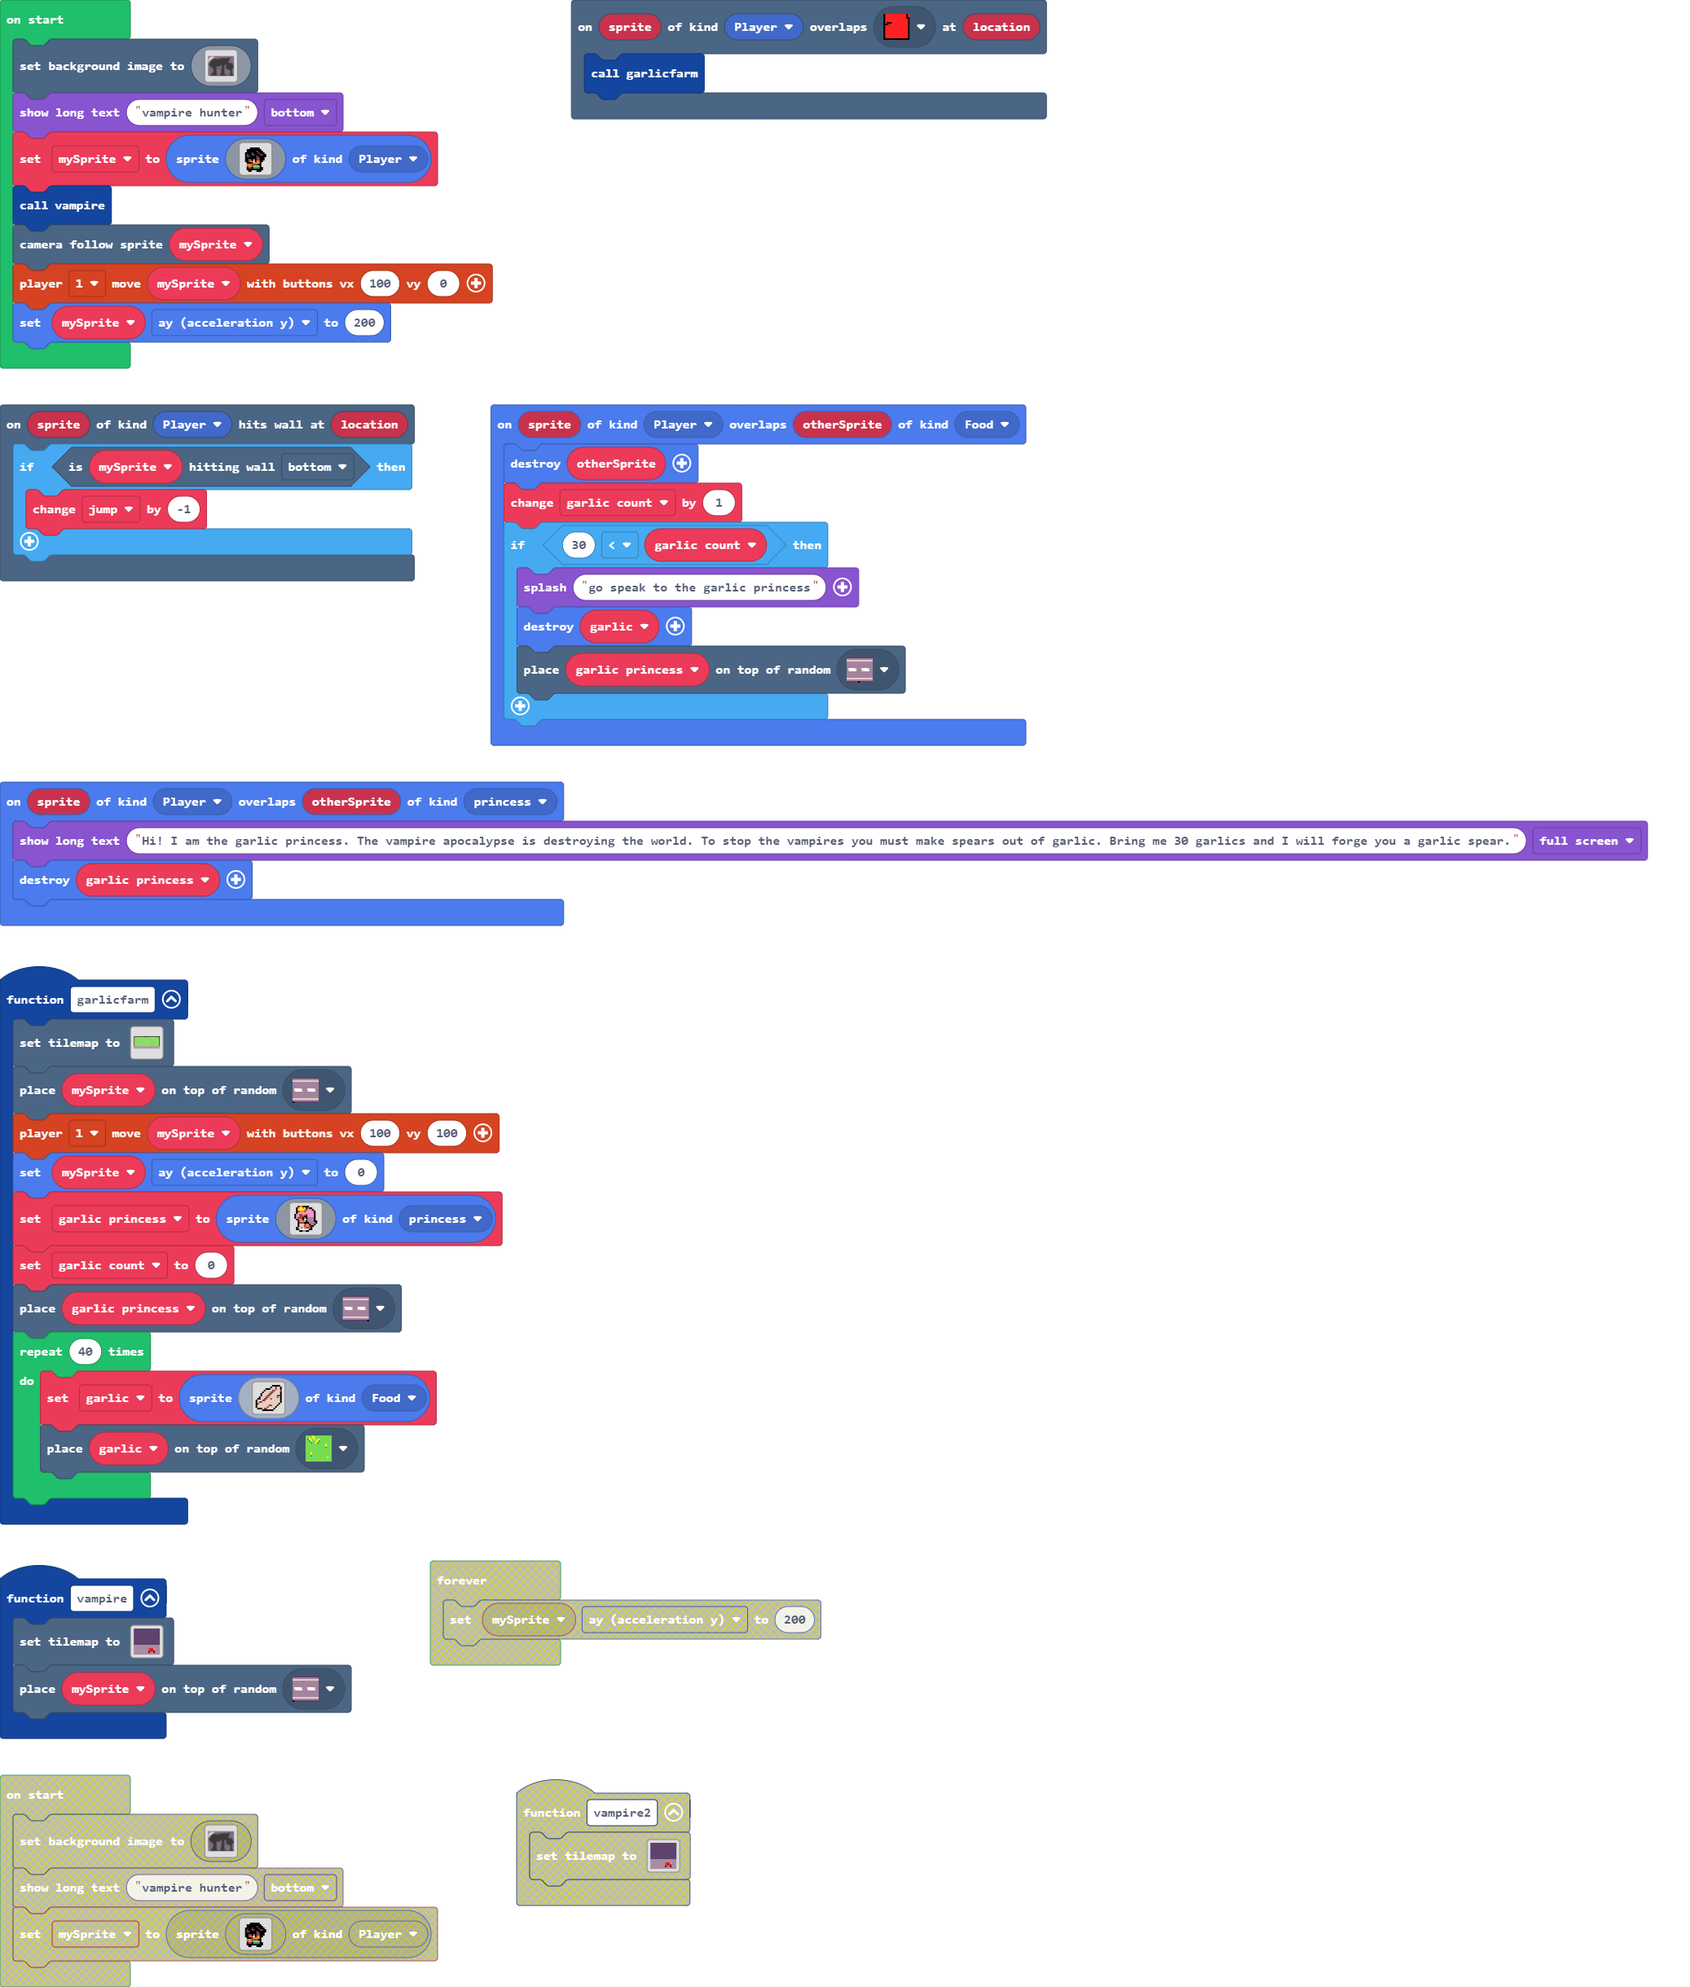
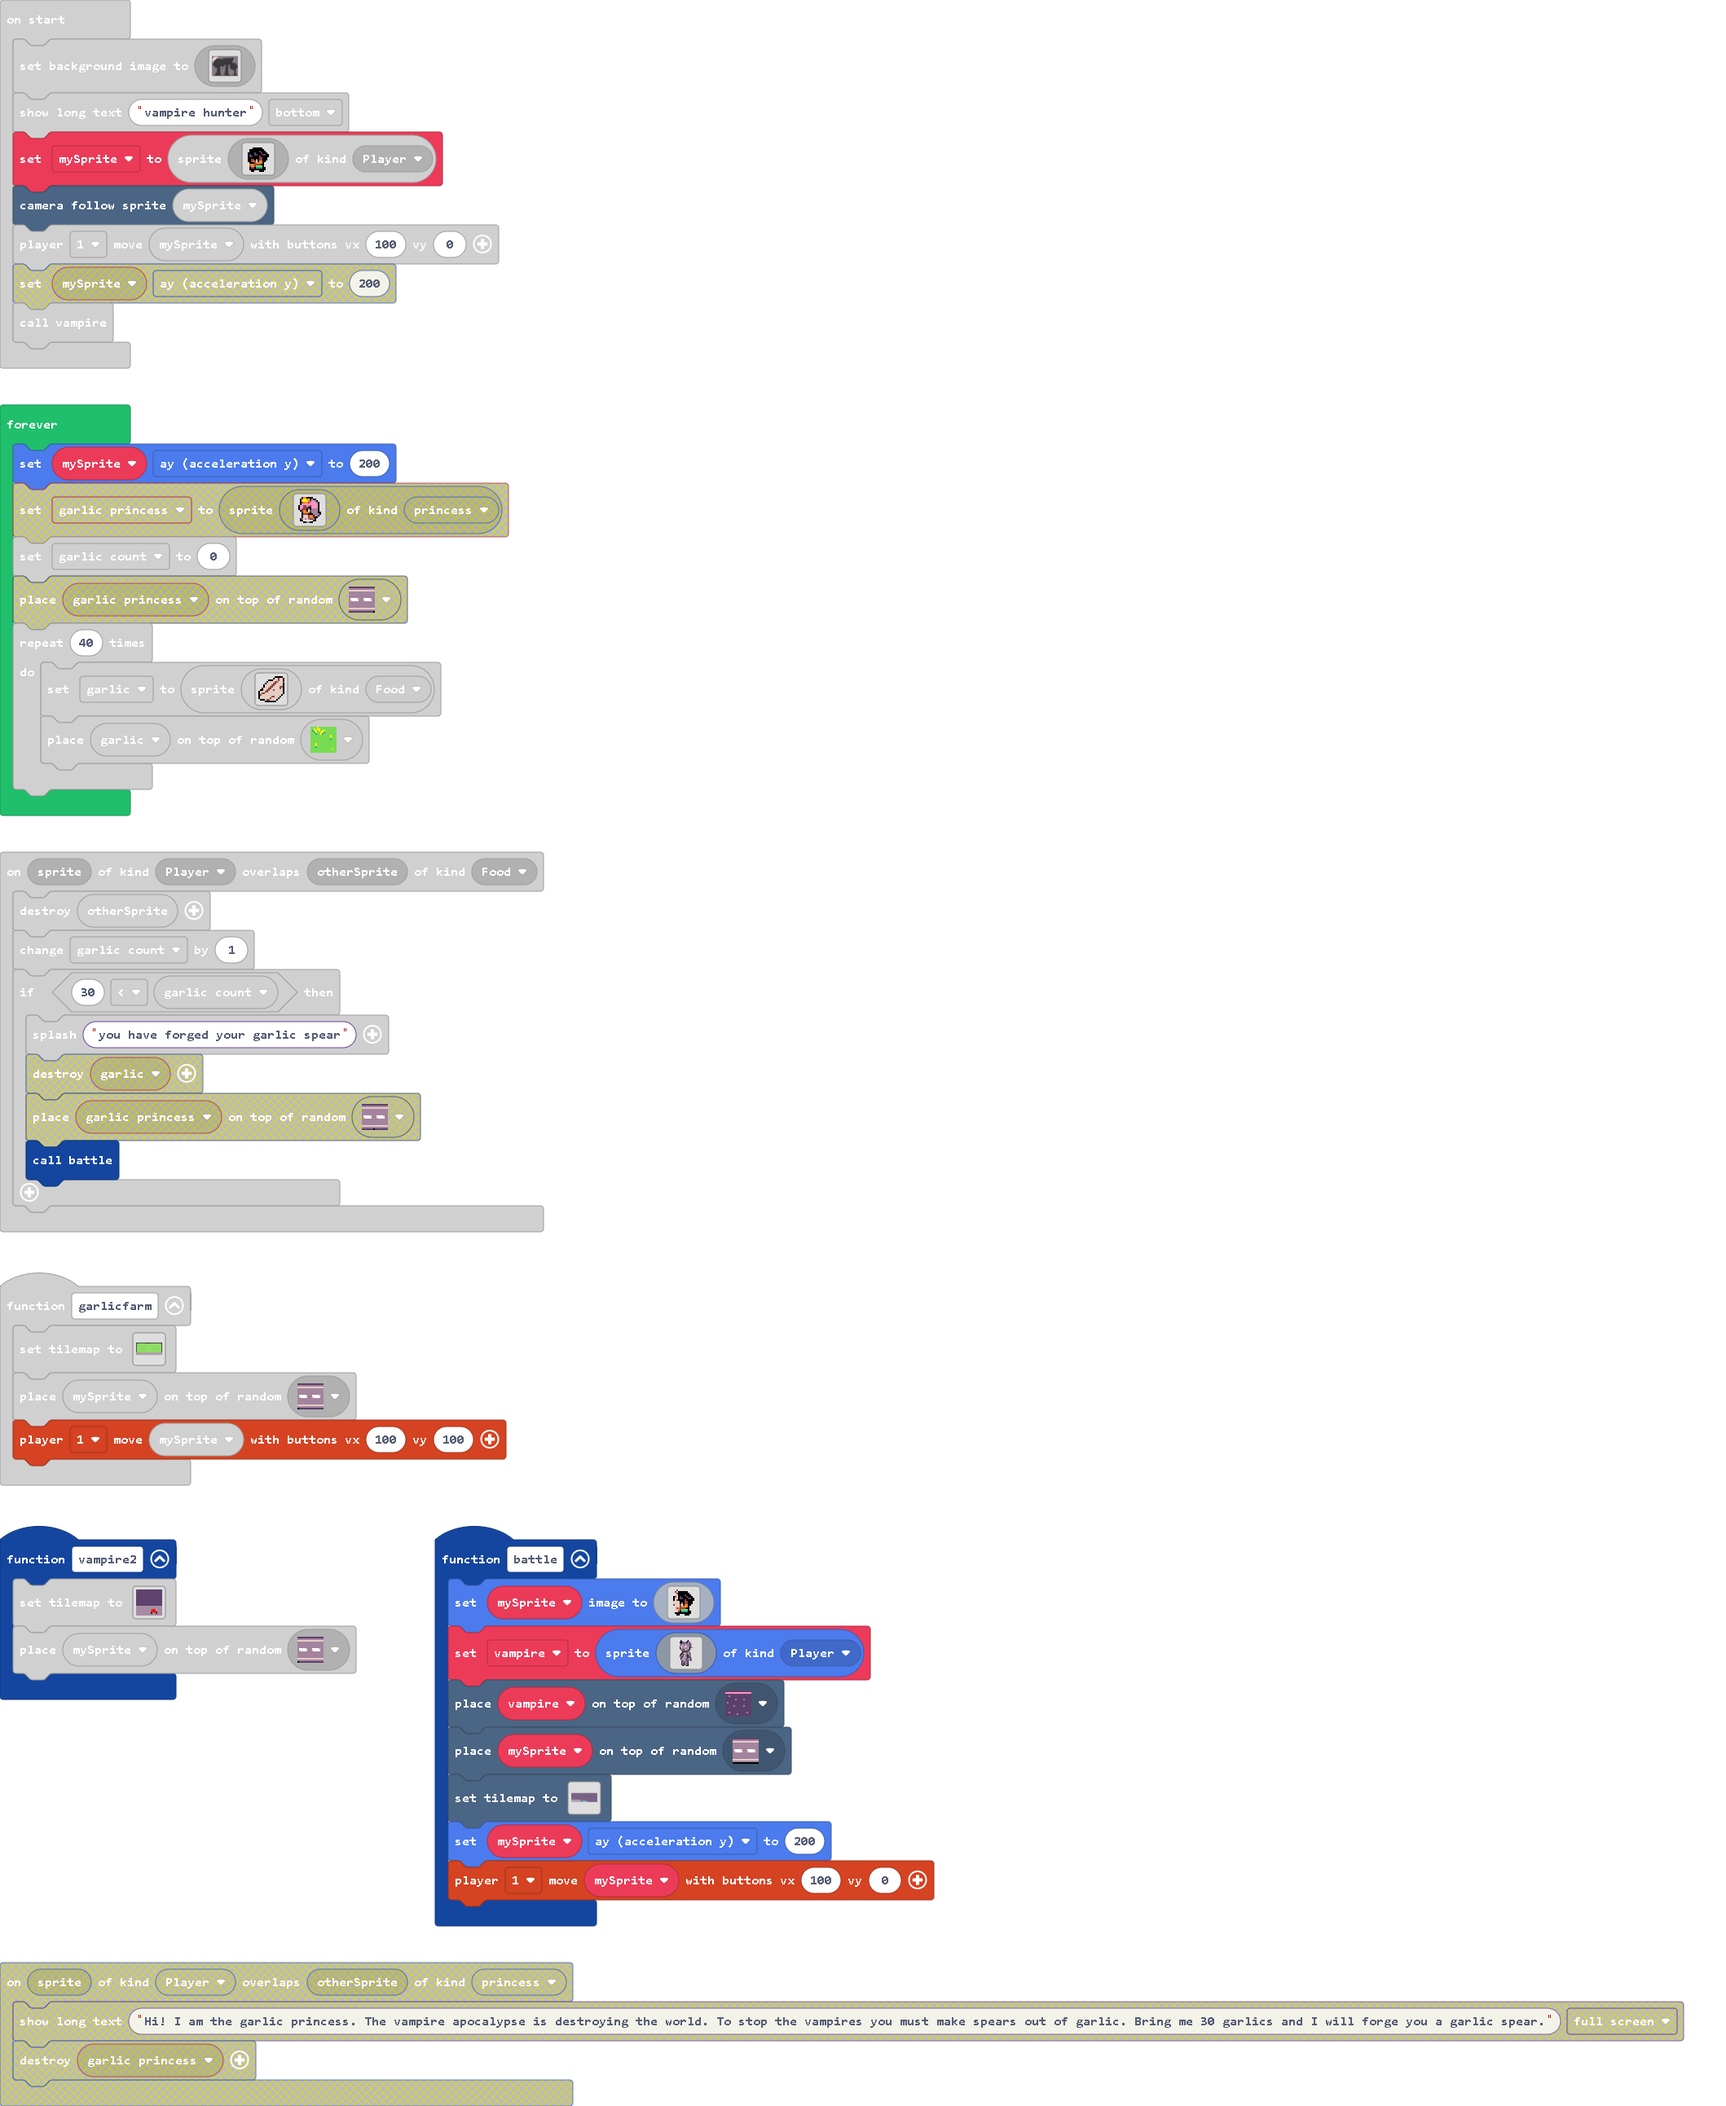
started boss level

Changed region(s): [[0.0, 0.0, 0.9875, 1.0], [0.3394, 0.0, 0.6172, 0.0623]]

diff --git a/tilemap.g.ts b/tilemap.g.ts
@@ -31,7 +31,11 @@ namespace myTiles {
     //% fixedInstance jres blockIdentity=images._tile
     export const tile14 = image.ofBuffer(hex``);
     //% fixedInstance jres blockIdentity=images._tile
+    export const tile16 = image.ofBuffer(hex``);
+    //% fixedInstance jres blockIdentity=images._tile
     export const tile15 = image.ofBuffer(hex``);
+    //% fixedInstance jres blockIdentity=images._tile
+    export const tile17 = image.ofBuffer(hex``);
 
     helpers._registerFactory("tilemap", function(name: string) {
         switch(helpers.stringTrim(name)) {
@@ -73,25 +77,6 @@ namespace myTiles {
 . . . . . . . . . . . . . . . . 
 2 2 2 2 2 2 2 2 2 2 2 2 2 2 2 2 
 `, [myTiles.transparency16,myTiles.tile1,myTiles.tile2,sprites.vehicle.roadHorizontal,sprites.dungeon.darkGroundCenter,myTiles.tile3,myTiles.tile4,myTiles.tile6,myTiles.tile7,myTiles.tile8,myTiles.tile9,myTiles.tile11,myTiles.tile12], TileScale.Sixteen);
-            case "level3":
[1 lines of base64/hex data omitted]
-..................................
-..................................
-..................................
-..................................
-..................................
-..................................
-..................................
-..................................
-..................................
-..................................
-..................................
-..................................
-..................................
-..................................
-..................................
-..................................
-`, [myTiles.transparency16,myTiles.tile12,sprites.castle.tileGrass1,sprites.builtin.forestTiles9,sprites.builtin.forestTiles5,sprites.builtin.forestTiles6,sprites.builtin.forestTiles7,sprites.builtin.forestTiles11,sprites.vehicle.roadHorizontal,myTiles.tile13,myTiles.tile14,myTiles.tile15], TileScale.Sixteen);
             case "level4":
             case "level4":return tiles.createTilemap(hex`1000100000000000000000000000000000000000000000000000000000000000000000000000000000000000000000000000000000000000000000000000000000000000000000000000000000000000000000000000000000000000000000000000000000000000000000000000000000000000000000000000000000000000000000000000000000000000000000000000000000000000000000000000000000000000000000000000000000000000000000000000000000000000000000000000000000000000000000000000000000000000000000000000000000000000000000000000000000000000000000000000000000000000000000000000000000000000`, img`
 . . . . . . . . . . . . . . . . 
@@ -111,6 +96,44 @@ namespace myTiles {
 . . . . . . . . . . . . . . . . 
 . . . . . . . . . . . . . . . . 
 `, [myTiles.transparency16], TileScale.Sixteen);
+            case "level3":
[1 lines of base64/hex data omitted]
+..................................
+..................................
+..................................
+..................................
+..................................
+..................................
+..................................
+..................................
+..................................
+..................................
+..................................
+..................................
+..................................
+..................................
+..................................
+..................................
+`, [myTiles.transparency16,myTiles.tile12,sprites.castle.tileGrass1,sprites.builtin.forestTiles9,sprites.builtin.forestTiles5,sprites.builtin.forestTiles6,sprites.builtin.forestTiles7,sprites.builtin.forestTiles11,sprites.vehicle.roadHorizontal,myTiles.tile13,myTiles.tile14,myTiles.tile15], TileScale.Sixteen);
+            case "level5":
+            case "level5":return tiles.createTilemap(hex`30001000020202020202020202020202020202020202020202020202020202020202020202020202020202020202020202020202020202020202020202020202020202020202020202020202020202020202020202020202020202020202020202020202020202020202020202020202020202020202020202020202020202020202020202020202020202020202020202020202020202020202020202020202020202020202020202020202020202020202020202020202020202020202020202020202020202020202020202020202020202020202020202020202020202020202020202020202020202020202020202020202020202020202020202020202020202020202020202020202020202020202020202020202020202020202020202020202020202020202020202020202020202020202020202020202020202020202020202020202020202020202020202020202020202020202020202020202020202020202020202020202020202020202020202020202020202020202020202020202020202020202020202020202020202020202020202020202020202020202020202020202020202020202020202020202020202020202020202020202020202020202020202020202020202020202020202020202020202020202020202020202020202020202020202020202020202020202020204040404050404040402020202020202020202020202020202020202020202020202020202020202020202020202020202020202020202020202020202020202020202020202020202020202010101010101010101010101010101010101020204040404040404040402020202020202020202020202020202020202010101010101010101010101010101010101020202020202020202020202020202020202020202020202020202020202010101010101010101010101010101010101020203030303030303030302020202020202020202020202020202020202060101010101010101010101010101010101020303030303030303030303020202020202020202020202020202020202`, img`
+................................................
+................................................
+................................................
+................................................
+................................................
+................................................
+................................................
+................................................
+................................................
+................................................
+................................................
+................................................
+................................................
+................................................
+....................222222222...................
+...................22222222222..................
+`, [myTiles.transparency16,sprites.vehicle.roadHorizontal,sprites.dungeon.darkGroundCenter,sprites.dungeon.collectibleInsignia,sprites.dungeon.darkGroundNorth,myTiles.tile17,myTiles.tile14], TileScale.Sixteen);
         }
         return null;
     })
@@ -146,8 +169,12 @@ namespace myTiles {
             case "tile13":return tile13;
             case "myTile12":
             case "tile14":return tile14;
+            case "myTile14":
+            case "tile16":return tile16;
             case "myTile13":
             case "tile15":return tile15;
+            case "myTile15":
+            case "tile17":return tile17;
         }
         return null;
     })

diff --git a/main.ts b/main.ts
@@ -1,31 +1,13 @@
 namespace SpriteKind {
     export const princess = SpriteKind.create()
+    export const princesss = SpriteKind.create()
+    export const guard = SpriteKind.create()
 }
 function garlicfarm () {
     tiles.setTilemap(tilemap`level3`)
     tiles.placeOnRandomTile(mySprite, assets.tile`myTile10`)
     controller.player1.moveSprite(mySprite, 100, 100)
-    mySprite.ay = 0
-    garlic_princess = sprites.create(img`
-        . . . f 4 4 f f f f . . . . . . 
-        . . f 4 5 5 4 5 f b f f . . . . 
-        . . f 5 5 5 5 4 e 3 3 b f . . . 
-        . . f e 4 4 4 e 3 3 3 3 b f . . 
-        . . f 3 3 3 3 3 3 3 3 3 3 f . . 
-        . f 3 3 e e 3 b e 3 3 3 3 f . . 
-        . f 3 3 e e e f f 3 3 3 3 f . . 
-        . f 3 e e e f b f b b b b f . . 
-        . . f e 4 4 f 1 e b b b b f . . 
-        . . . f 4 4 4 4 f b b b b f f . 
-        . . . f e e e f f f b b b b f . 
-        . . . f d d d e 4 4 f b b f . . 
-        . . . f d d d e 4 4 e f f . . . 
-        . . f b d b d b e e b f . . . . 
-        . . f f 1 d 1 d 1 d f f . . . . 
-        . . . . f f b b f f . . . . . . 
-        `, SpriteKind.princess)
     garlic_count = 0
-    tiles.placeOnRandomTile(garlic_princess, assets.tile`myTile11`)
     for (let index = 0; index < 40; index++) {
         garlic = sprites.create(img`
             . . . . . . . . . . f f f f f . 
@@ -61,10 +43,62 @@ scene.onHitWall(SpriteKind.Player, function (sprite, location) {
         jump += -1
     }
 })
-sprites.onOverlap(SpriteKind.Player, SpriteKind.princess, function (sprite, otherSprite) {
-    game.showLongText("Hi! I am the garlic princess. The vampire apocalypse is destroying the world. To stop the vampires you must make spears out of garlic. Bring me 30 garlics and I will forge you a garlic spear.", DialogLayout.Full)
-    garlic_princess.destroy()
-})
+function battle () {
+    mySprite.setImage(img`
+        . . e . . . . . . . . . . 
+        . e d f f f f f f . . . . 
+        . d e f f f f f f f . . . 
+        . d d f f f f c f f f . . 
+        f e d f c f f f c f f f . 
+        f d d f c c f f f c c f f 
+        f d e f f f f e f f f f f 
+        d d d d f f f e e f f f . 
+        d d d d f b f e e f f f . 
+        e d d d e 1 f 4 4 f f . . 
+        . d d d e 4 4 4 4 f . . . 
+        . d e 4 e e e e f f . . . 
+        . d d 4 e 7 7 7 7 f . . . 
+        . d d e f 6 6 6 6 f f . . 
+        . f f f f f f f f f f . . 
+        . . f f . . . f f f . . . 
+        `)
+    vampire2 = sprites.create(img`
+        .f.......f....
+        .ff.....ffb...
+        fffcc.ccfbcb..
+        fffcccccfbcc..
+        .fc3cc3bcbccc.
+        .cb3bc3bbcccc.
+        ccbbbbbbbbcc..
+        c11bbb11bbbfc.
+        fbbbbbbbbbbfcc
+        fbcbbbcbbbbf..
+        .f1fff1bbbcf..
+        ..fbbbbbbcf...
+        ...fffffff....
+        ...fcccccbf...
+        ..ffbbbbfbbc..
+        .ffccdddcbbf..
+        ffccfdccffbc..
+        ccbbfddccfbc..
+        cbffbbbccfbf..
+        bbfbbbbbcfbfc.
+        .fcbbbbccbbbc.
+        .fbbbbbcccbbf.
+        ..bbbbbcccbbf.
+        ..fcbbbccf....
+        ..fcbfbbcf....
+        ..fbbfbbcf....
+        ..fccfbccf....
+        ..fccfbcbf....
+        ...ff..fff....
+        `, SpriteKind.Player)
+    tiles.placeOnRandomTile(vampire2, assets.tile`myTile15`)
+    tiles.placeOnRandomTile(mySprite, assets.tile`myTile12`)
+    tiles.setTilemap(tilemap`level5`)
+    mySprite.ay = 200
+    controller.player1.moveSprite(mySprite, 100, 0)
+}
 function vampire () {
     tiles.setTilemap(tilemap`level2`)
     tiles.placeOnRandomTile(mySprite, assets.tile`myTile10`)
@@ -76,15 +110,14 @@ sprites.onOverlap(SpriteKind.Player, SpriteKind.Food, function (sprite, otherSpr
     otherSprite.destroy()
     garlic_count += 1
     if (30 < garlic_count) {
-        game.splash("go speak to the garlic princess")
-        garlic.destroy()
-        tiles.placeOnRandomTile(garlic_princess, assets.tile`myTile13`)
+        game.splash("you have forged your garlic spear")
+        battle()
     }
 })
+let vampire2: Sprite = null
 let jump = 0
 let garlic: Sprite = null
 let garlic_count = 0
-let garlic_princess: Sprite = null
 let mySprite: Sprite = null
 scene.setBackgroundImage(img`
     cccccccccccccccccccccccccccccccccccccccccccccccccccccccccccccccccccccccccccccccccccccccccccccccccccccccccccccccccccccccccccccccccccccccccccccccccccccccccccccccc
@@ -227,7 +260,9 @@ mySprite = sprites.create(img`
     . f f f f f f f f f f . . 
     . . f f . . . f f f . . . 
     `, SpriteKind.Player)
-vampire()
 scene.cameraFollowSprite(mySprite)
 controller.player1.moveSprite(mySprite, 100, 0)
-mySprite.ay = 200
+vampire()
+forever(function () {
+    mySprite.ay = 200
+})
